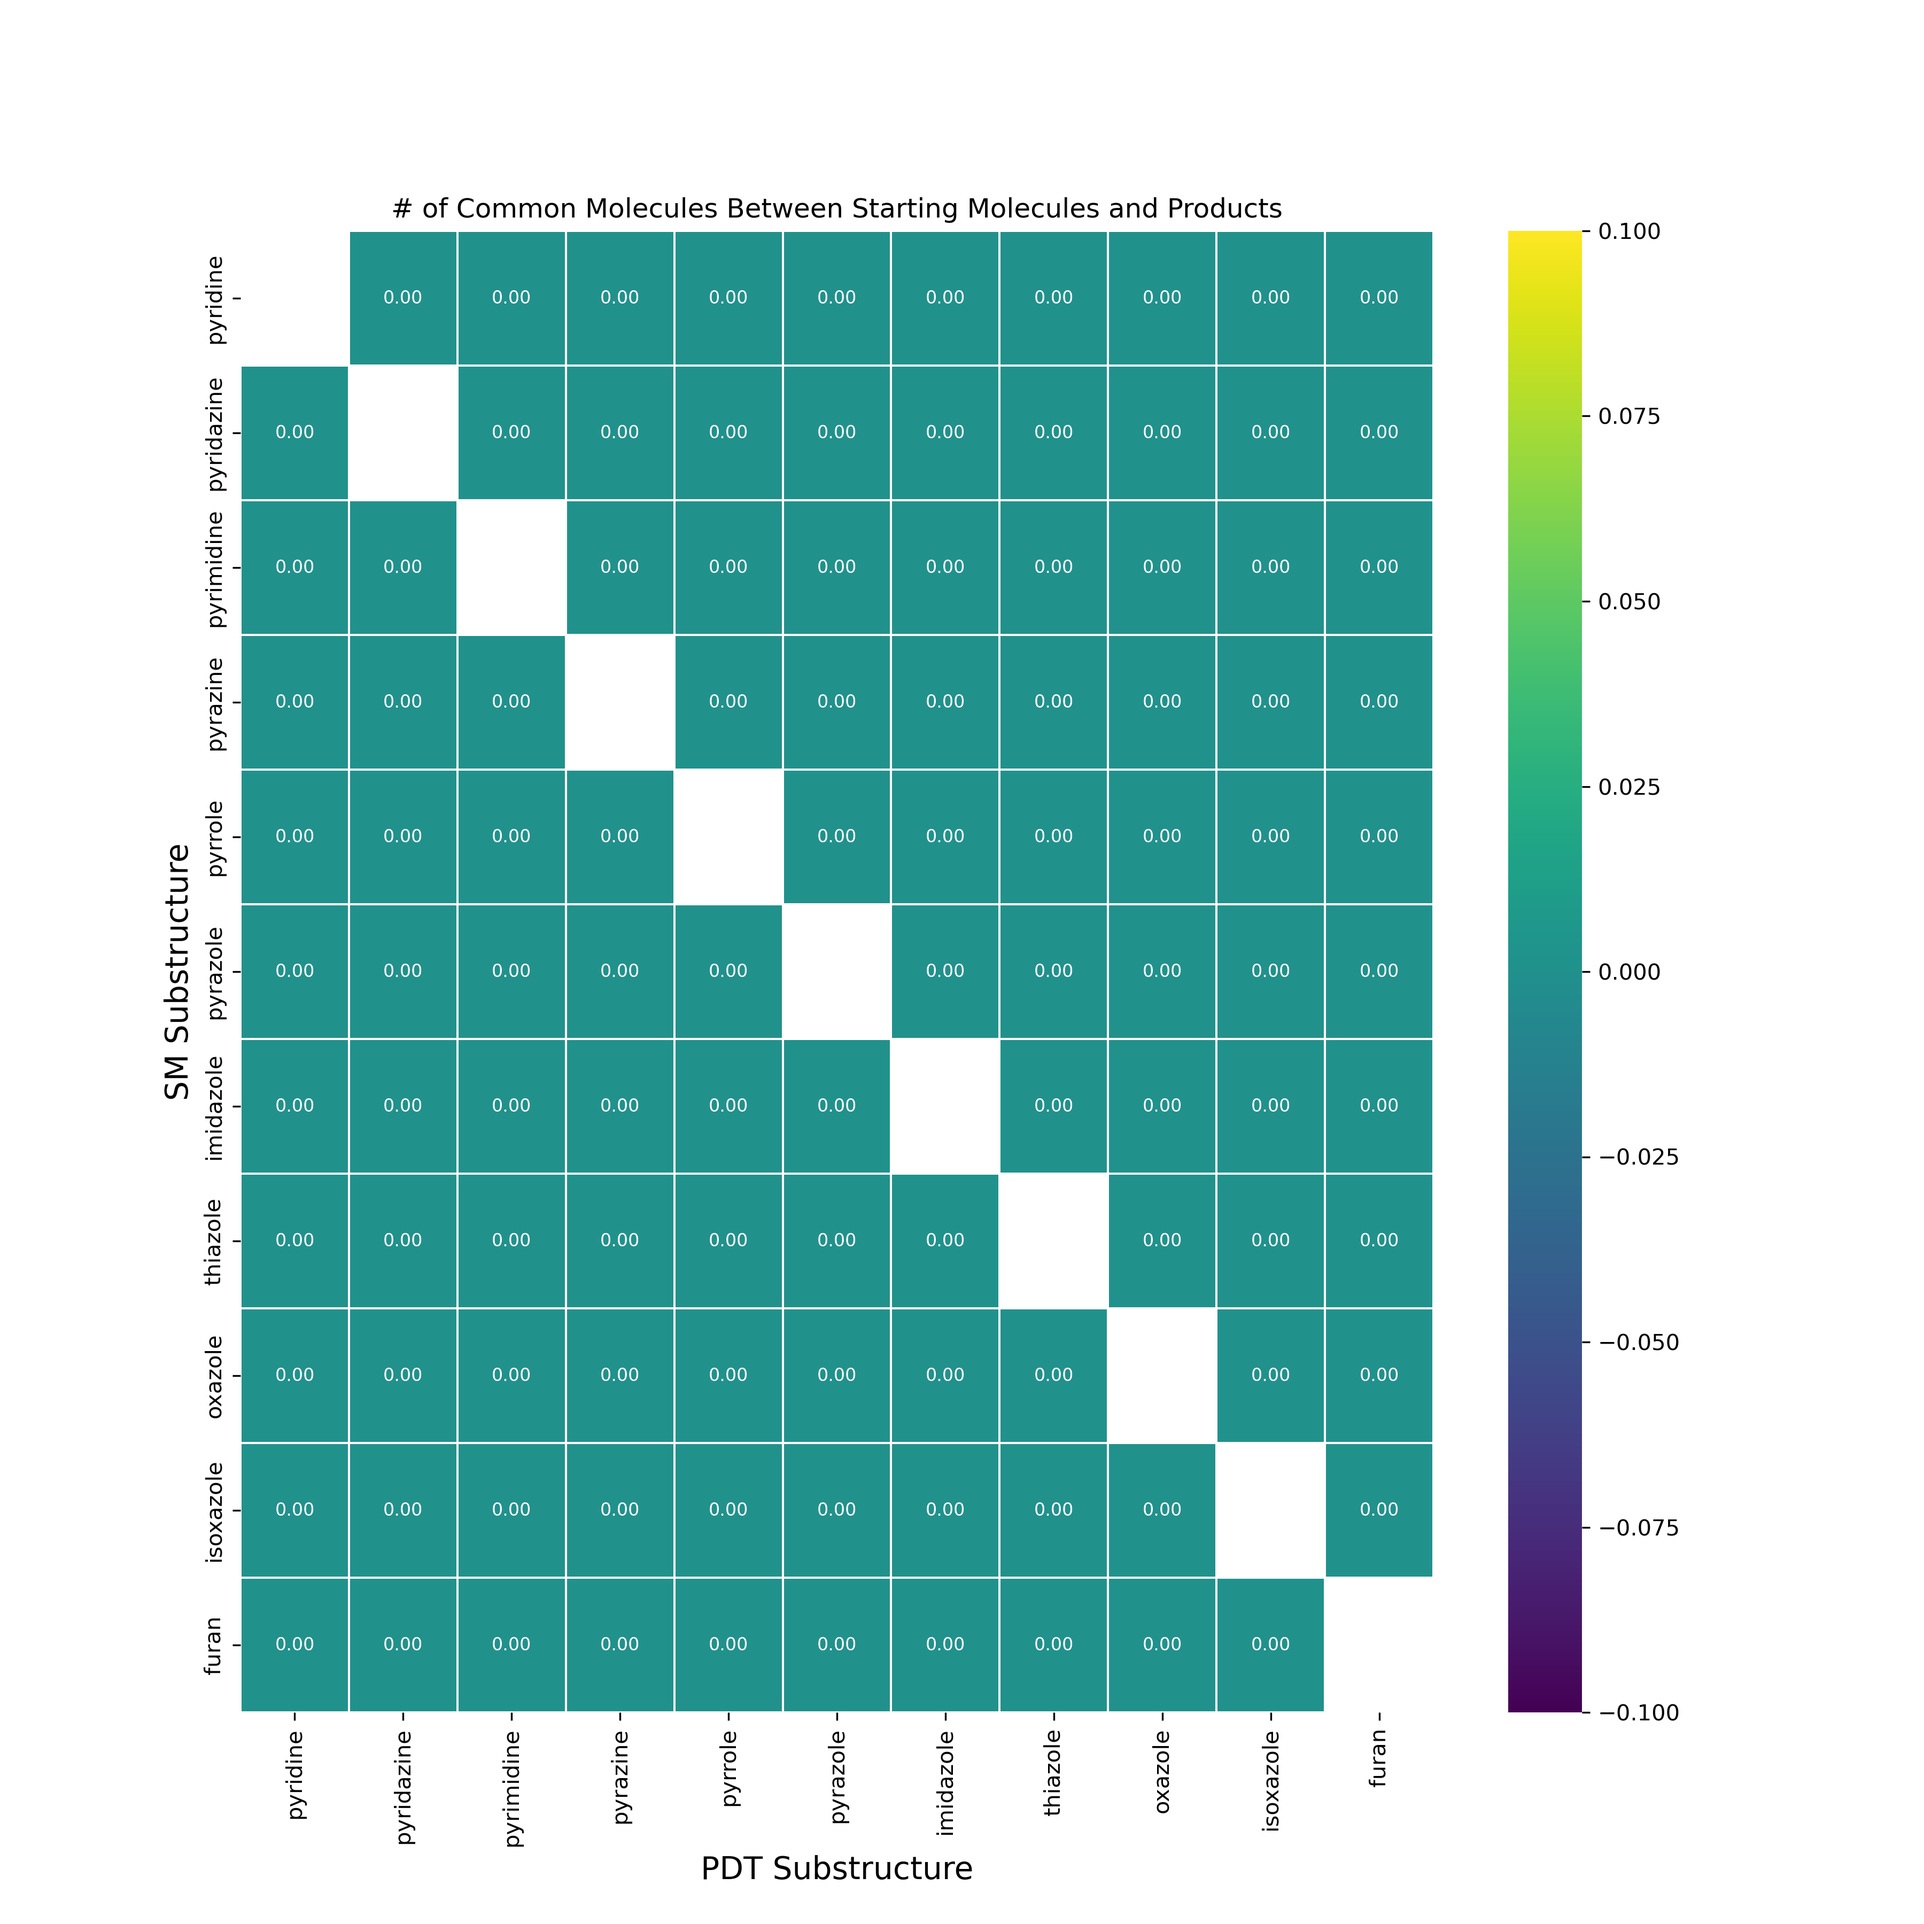
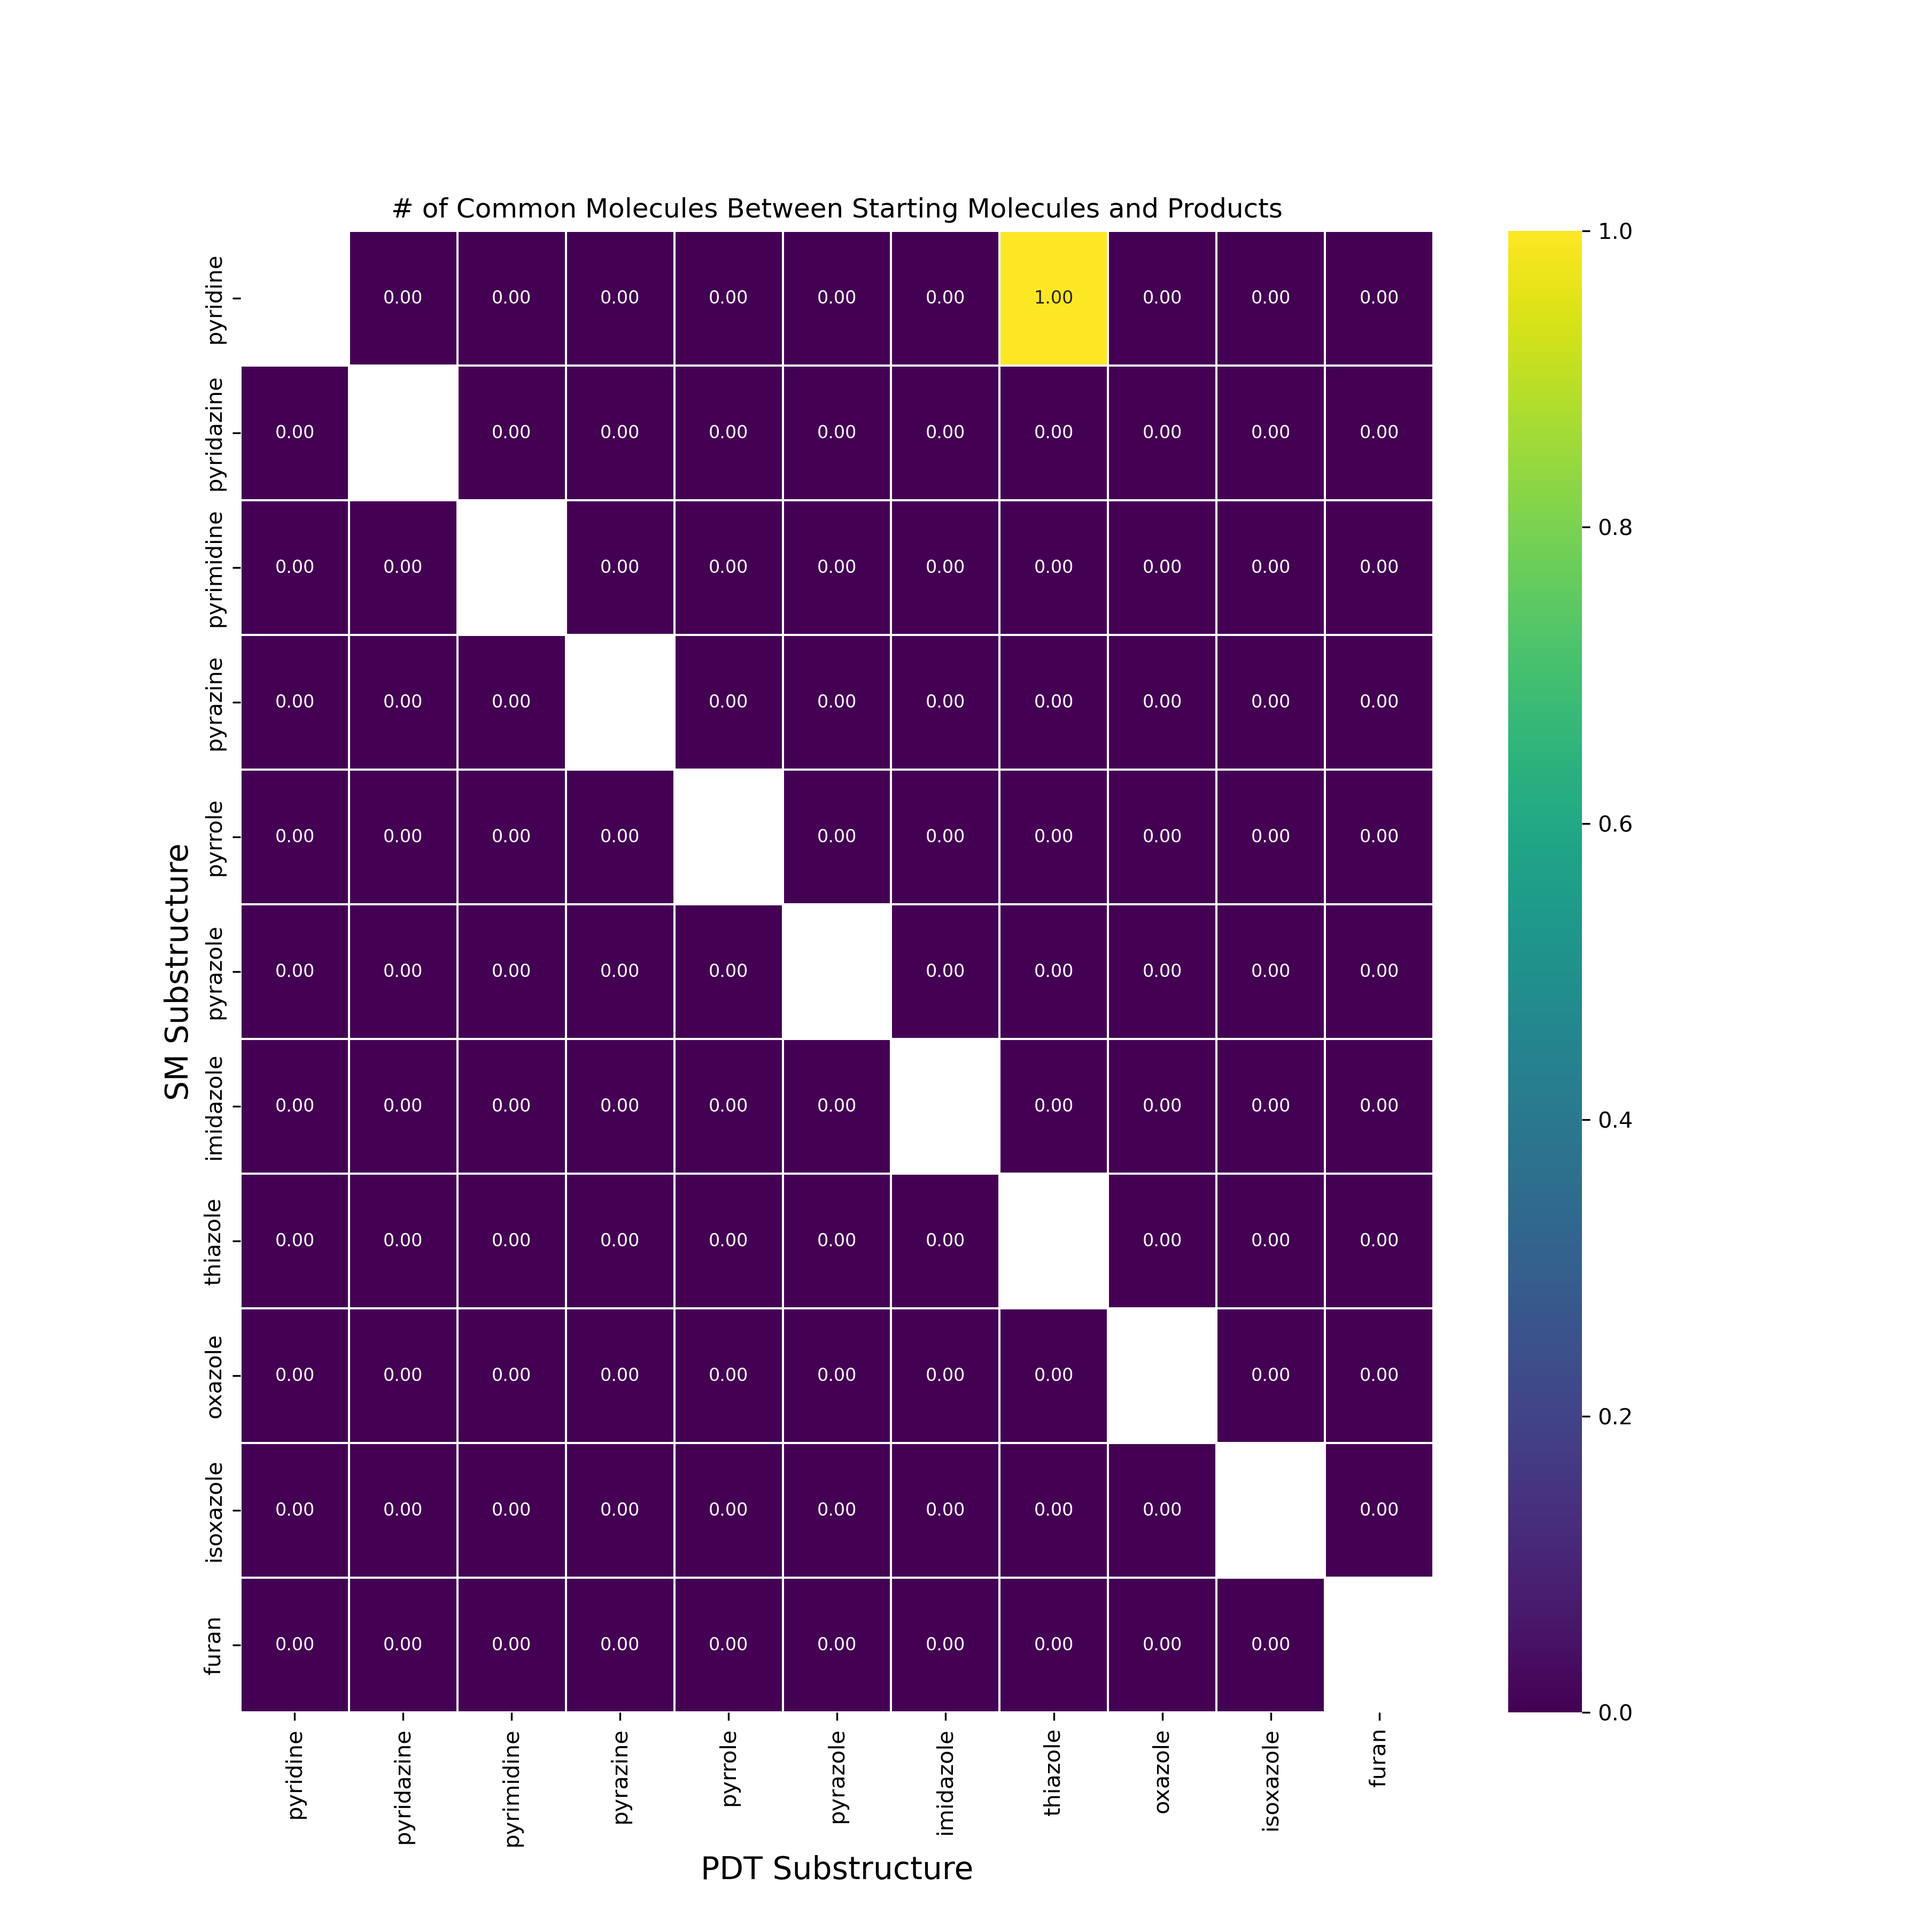
Restored functionality of unique_molecule counting function

diff --git a/test_short/heatmaps/gather_all_results.py b/test_short/heatmaps/gather_all_results.py
@@ -59,7 +59,7 @@ def count_sm_molecules(frameworks, sm_filenames):
     
     return sm_count_arr, sm_count_df
 
-'''
+
 def count_unique_molecules(frameworks, unique_filenames):
     # get the number of molecules classes
     num_frameworks = len(frameworks)
@@ -98,9 +98,10 @@ def count_unique_molecules(frameworks, unique_filenames):
                     columns = frameworks)
     
     return unique_count_arr, unique_count_df
+
+
+# commented out because it's deprecated but might be useful in the futre
 '''
-
-
 def count_unique_molecules(frameworks, unique_filenames):
     # get the number of molecules classes
     num_frameworks = len(frameworks)
@@ -131,6 +132,7 @@ def count_unique_molecules(frameworks, unique_filenames):
                     columns = frameworks)
     
     return product_count_arr, product_count_df
+'''
 
 
 def count_new_molecules(frameworks, new_filenames):
@@ -279,7 +281,7 @@ frameworks = ['pyridine',
 
 # loads in filename repositories
 sm_filenames = load_file_as_list('sm_molecules_filenames.txt')
-unique_filenames = load_file_as_list('product_molecules_filenames.txt') # change back to unique_molecules_filenames.txt eventually
+unique_filenames = load_file_as_list('unique_molecules_filenames.txt')
 new_filenames = load_file_as_list('new_molecules_filenames.txt')
 common_filenames = load_file_as_list('common_molecules_filenames.txt')
 
@@ -331,7 +333,7 @@ GenerateHeatmap(symmetry_results_df, 'Symmetry Metric for Each Transformation', 
 
 # calculates results normalized to # of starting molecules
 normalized_unique_count_arr = unique_count_arr / sm_count_arr
-normalized_new_count_arr = unique_count_arr / sm_count_arr # change this back to new_count_arr instead of unique_count_arr when fixed
+normalized_new_count_arr = new_count_arr  / sm_count_arr
 normalized_common_count_arr = common_count_arr / sm_count_arr
 
 # adjusts arrays based on symmetry metric
